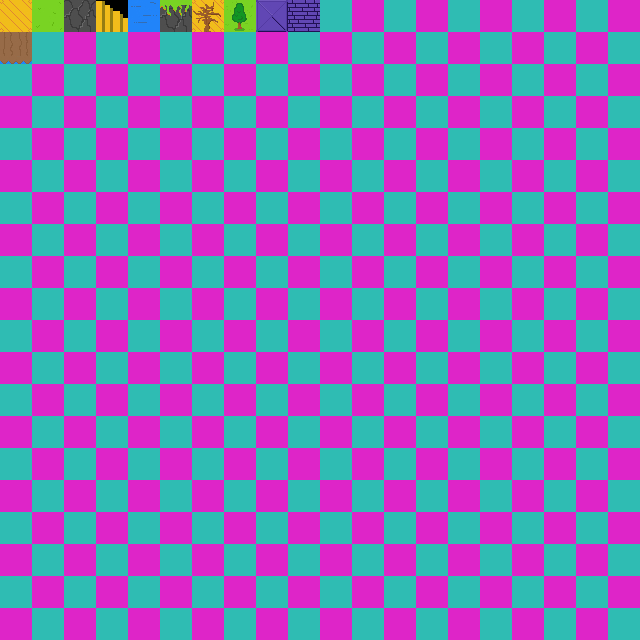
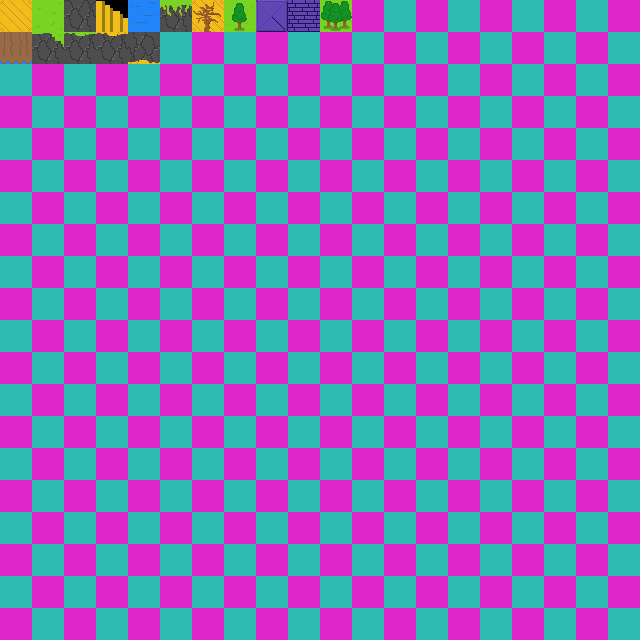
Major map layout change, ps Im bored

Changed region(s): [[0.0312, 0.0312, 0.25, 0.125], [0.5, 0.0, 0.5625, 0.0625]]

diff --git a/tiles.py b/tiles.py
@@ -65,23 +65,23 @@ class TileMap():
             for tile in row:
                 if tile == '0':
                     self.start_x, self.start_y = x * self.tile_size, y * self.tile_size
-                elif tile == '1':
+                elif tile == '01':
                     tiles.append(Tile('brown.png', x * self.tile_size, y * self.tile_size, self.spritesheet,groups, z=1))
-                elif tile == '2':
+                elif tile == '02':
                     tiles.append(Tile('green.png', x * self.tile_size, y * self.tile_size, self.spritesheet,groups, z=1))
-                elif tile == '3':
+                elif tile == '03':
                     tiles.append(Stone('stone.png', x * self.tile_size, y * self.tile_size, self.spritesheet,groups,colli, z=1))
-                elif tile == '4':
+                elif tile == '04':
                     tiles.append(Stairs('brown_stairs.png', x * self.tile_size, y * self.tile_size, self.spritesheet,groups,colli, z=1))
-                elif tile == '5':
+                elif tile == '05':
                     tiles.append(Tile('water.png', x * self.tile_size, y * self.tile_size, self.spritesheet,groups, z=1))
-                elif tile == '6':
+                elif tile == '06':
                     tiles.append(Barrier('water.png', x * self.tile_size, y * self.tile_size, self.spritesheet,groups,colli, z=1))
-                elif tile == '7':
+                elif tile == '07':
                     tiles.append(Barrier('stone_greenTop.png', x * self.tile_size, y * self.tile_size, self.spritesheet,groups,colli, z=1))
-                elif tile == '8':
+                elif tile == '08':
                     tiles.append(Barrier('tree.png', x * self.tile_size, y * self.tile_size, self.spritesheet,groups,colli, z=1))
-                elif tile == '9':
+                elif tile == '09':
                     tiles.append(Barrier('tree_2.png', x * self.tile_size, y * self.tile_size, self.spritesheet,groups,colli, z=1))
                 elif tile == '10':
                     tiles.append(Tile('purple_stone.png', x * self.tile_size, y * self.tile_size, self.spritesheet,groups, z=1))
@@ -89,6 +89,18 @@ class TileMap():
                     tiles.append(Stone('purple_brick.png', x * self.tile_size, y * self.tile_size, self.spritesheet,groups,colli, z=1))
                 elif tile == '12':
                     tiles.append(Tile('dock_1.png', x * self.tile_size, y * self.tile_size, self.spritesheet,groups, z=1))
+                elif tile == '13':
+                     tiles.append(Stone('stone_2.png', x * self.tile_size, y * self.tile_size, self.spritesheet,groups,colli, z=1))
+                elif tile == '14':
+                     tiles.append(Stone('stone_3.png', x * self.tile_size, y * self.tile_size, self.spritesheet,groups,colli, z=1))
+                elif tile == '15':
+                     tiles.append(Stone('stone_4.png', x * self.tile_size, y * self.tile_size, self.spritesheet,groups,colli, z=1))
+                elif tile == '16':
+                     tiles.append(Stone("stone_5.png", x * self.tile_size, y * self.tile_size, self.spritesheet,groups,colli, z=1))
+                elif tile == '17':
+                     tiles.append(Stone("stone_5.png", x * self.tile_size, y * self.tile_size, self.spritesheet,groups,colli, z=1))
+                elif tile == '18':
+                     tiles.append(Barrier("trees.png", x * self.tile_size, y * self.tile_size, self.spritesheet,groups,colli, z=1))
                     # Move to next tile in current row
                 x += 1
 

diff --git a/player.py b/player.py
@@ -22,7 +22,8 @@ class Player(pygame.sprite.Sprite):
 
         #movement
         self.direction = pygame.math.Vector2(self.rect.center)
-        self.speed = 300
+        #self.speed = 300
+        self.speed = 1000
         self.pos = pygame.math.Vector2(self.rect.center)
         
         #maplocation
